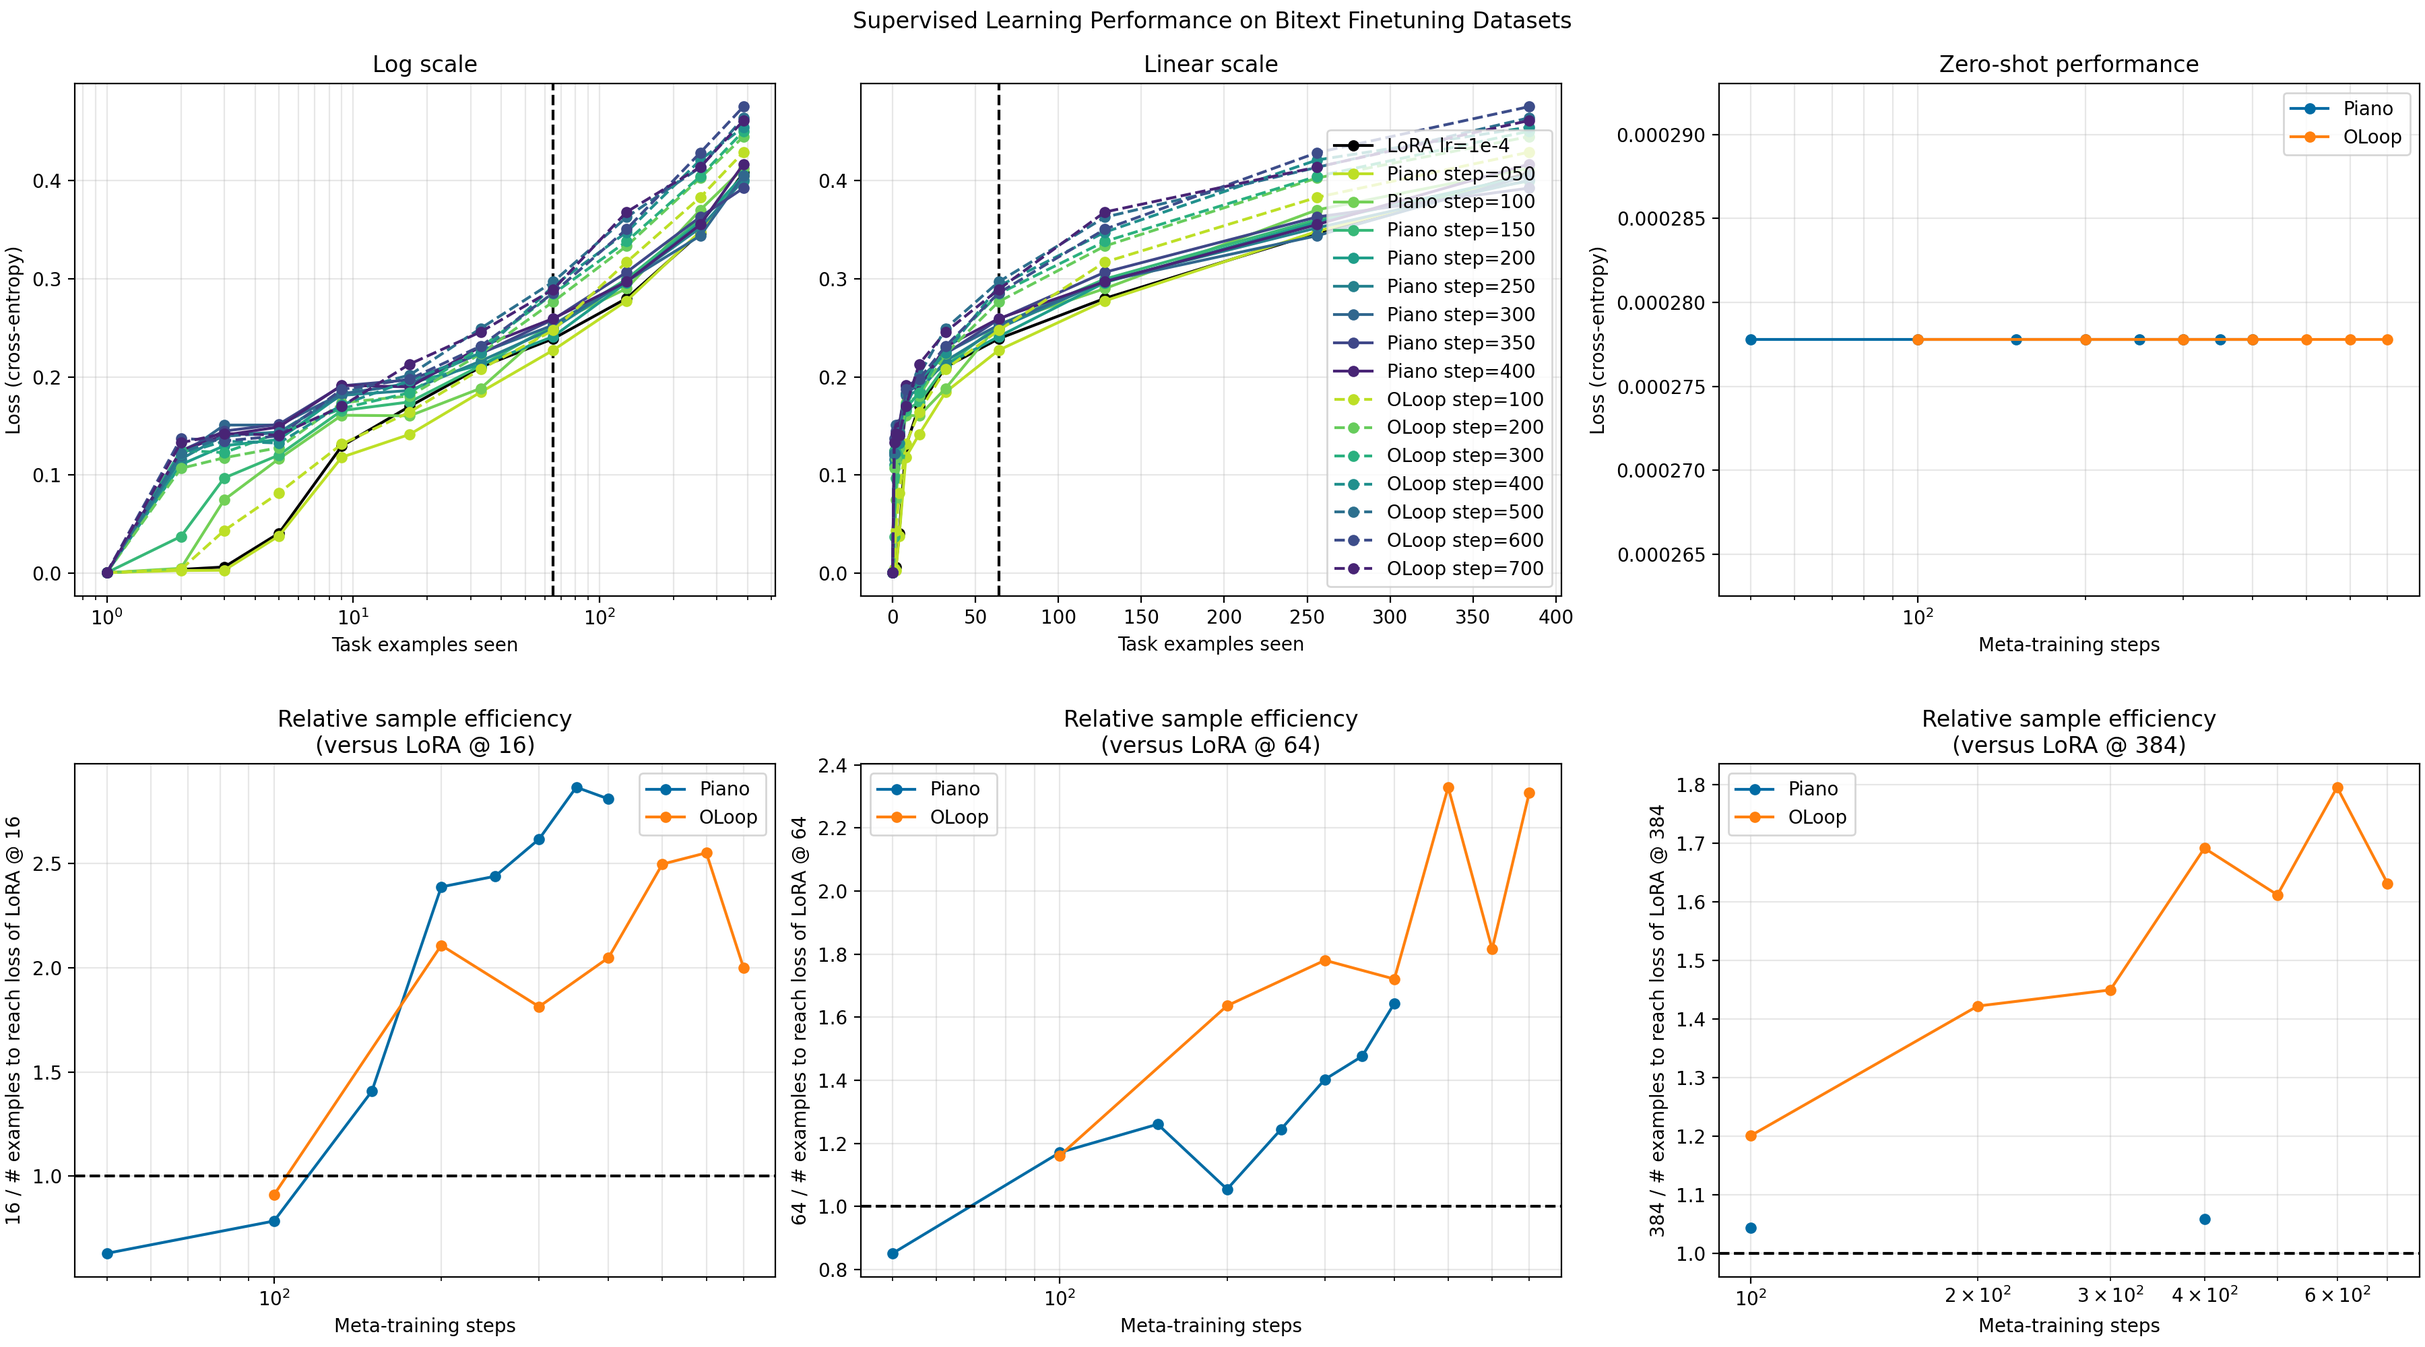
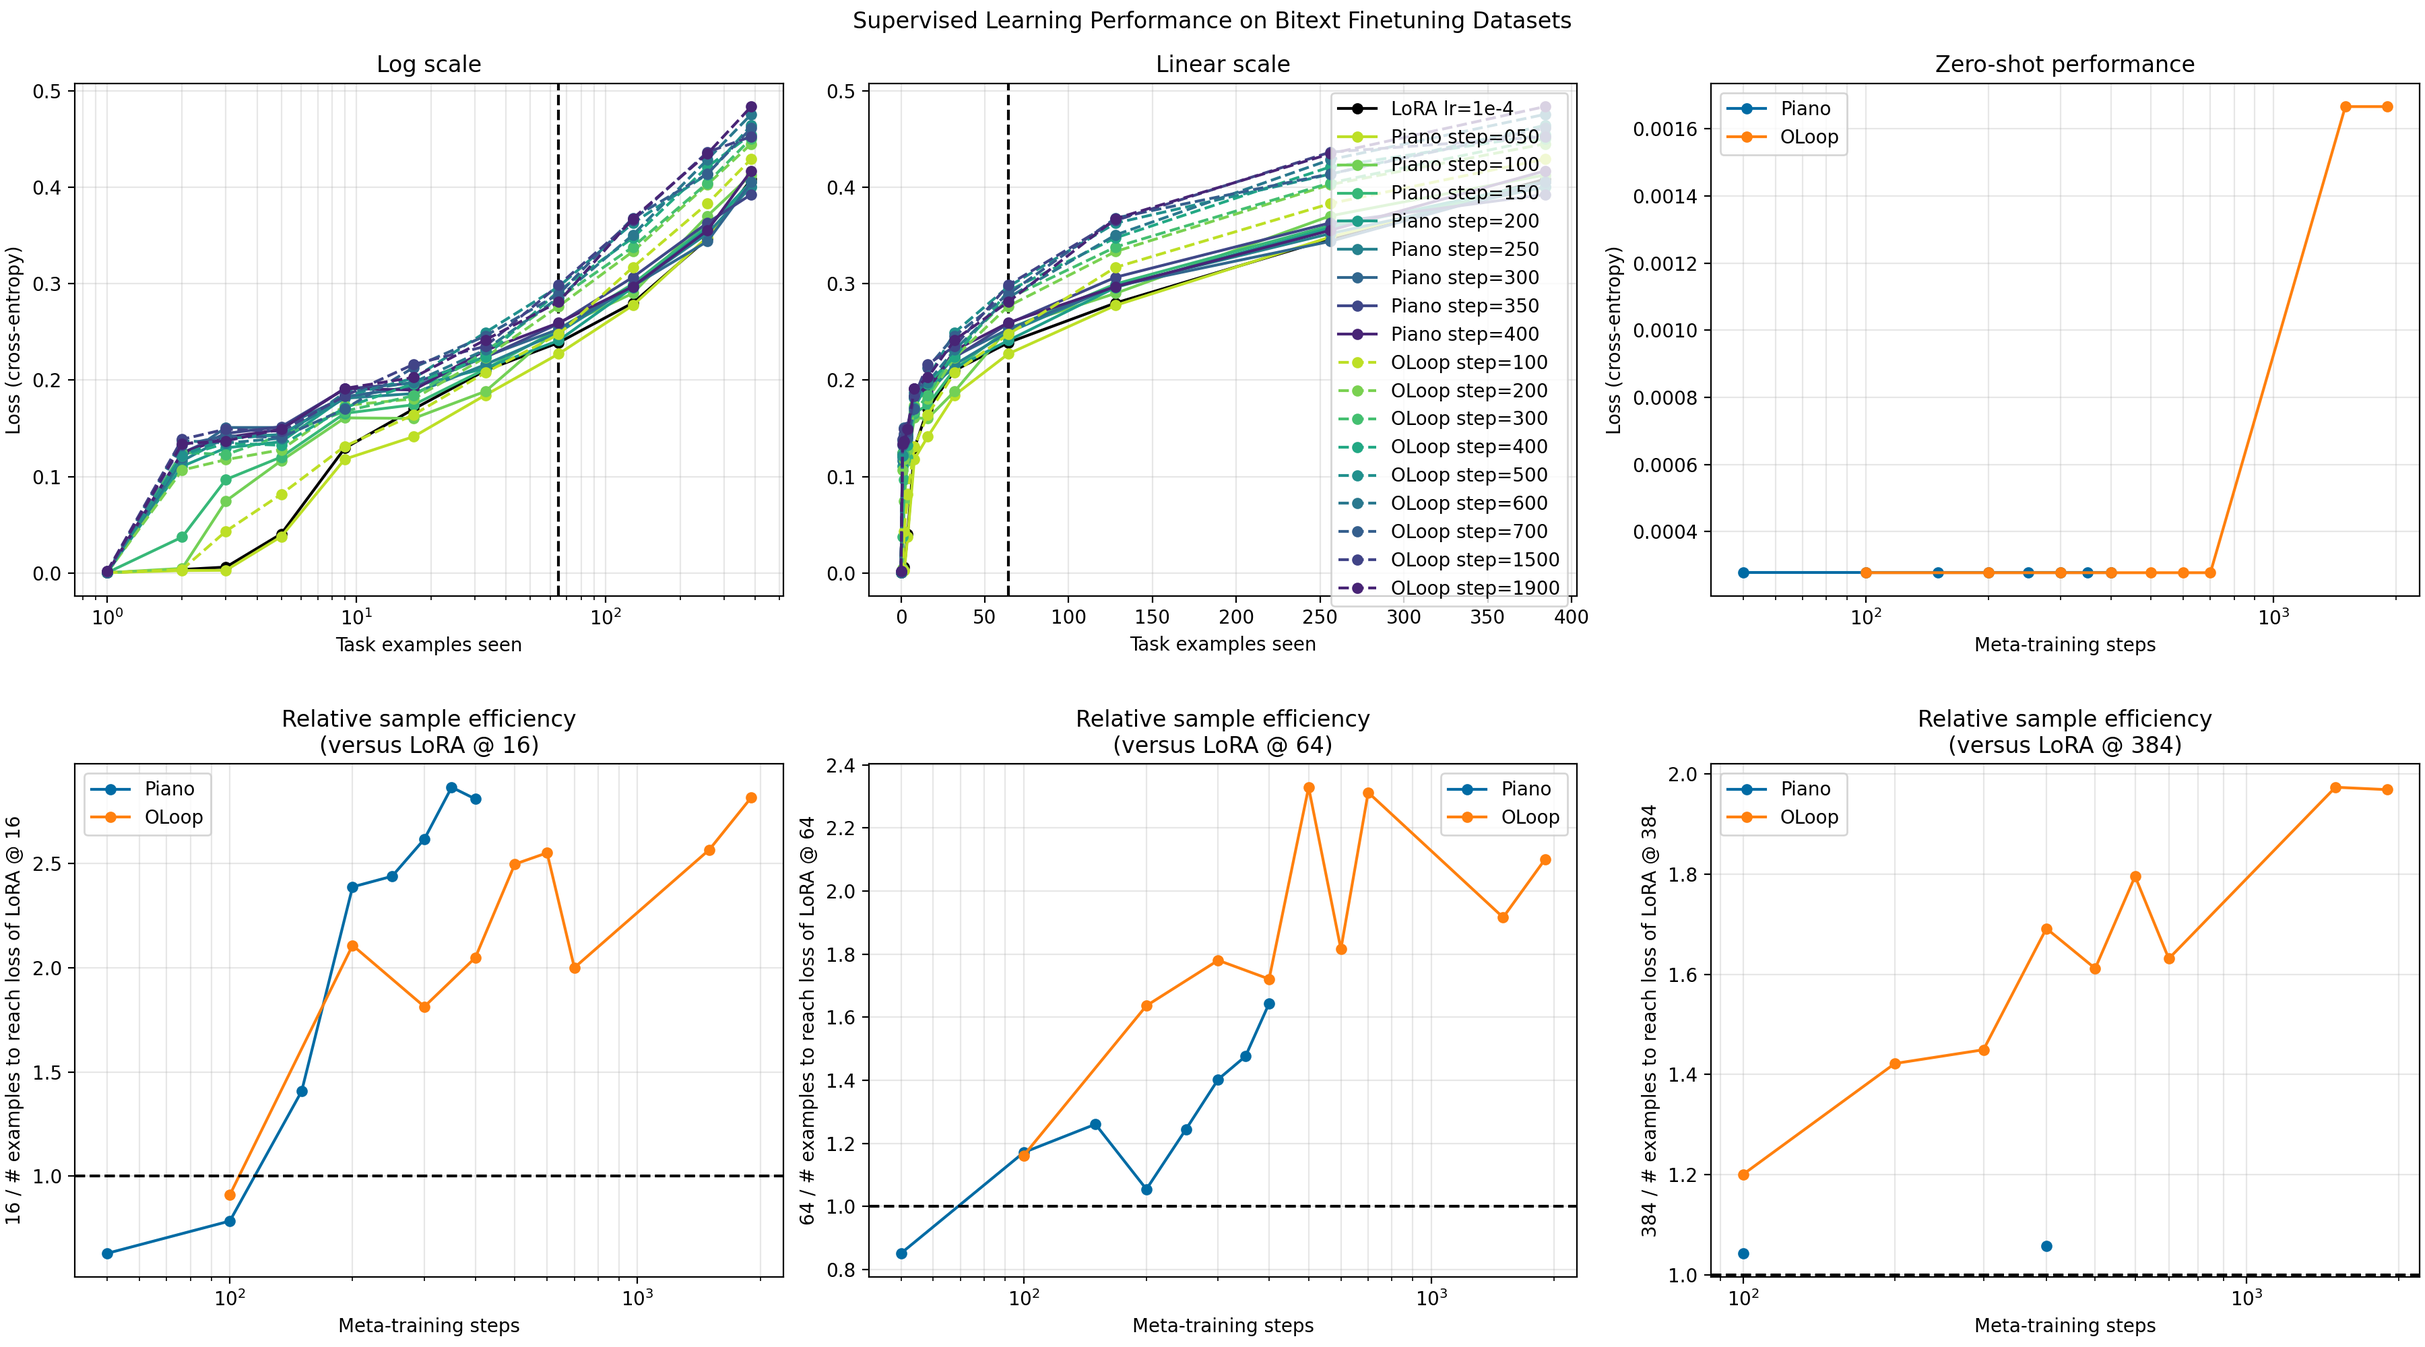
lora ablations

diff --git a/src/evaluate_icl.py b/src/evaluate_icl.py
@@ -64,6 +64,17 @@ def parse_args():
     )
     parser.add_argument("--eval-fn", default="output_loss", choices=["exact_match", "output_loss"])
     parser.add_argument("--save-name", default=None, help="Name for saving results (default: checkpoint name)")
+    parser.add_argument(
+        "--only-lora-fast-weights",
+        choices=["q_proj", "k_proj", "v_proj", "o_proj", "up_proj", "down_proj", "gate_proj"],
+        default=None,
+        help="Keep dynamic LoRA weights enabled only for one projection family",
+    )
+    parser.add_argument(
+        "--result-path",
+        default=None,
+        help="Write the result directly to this JSON path (requires one rollout)",
+    )
     return parser.parse_args()
 
 
@@ -97,7 +108,12 @@ def load_config_defaults(config_path, config):
                         config[k] = v
 
 
-def load_fresh_model(config_path: str, base_lr: float | None, device: torch.device):
+def load_fresh_model(
+    config_path: str,
+    base_lr: float | None,
+    device: torch.device,
+    only_lora_fast_weights: str | None = None,
+):
     config = OmegaConf.load(constants.CONFIG_PATH(config_path))
     load_config_defaults(config_path, config)
 
@@ -126,6 +142,15 @@ def load_fresh_model(config_path: str, base_lr: float | None, device: torch.devi
             config.pretrained_step,
             strict=config.pretrained_strict,
         )
+
+    if only_lora_fast_weights is not None:
+        enable_only = getattr(model, "enable_fast_weights_only_for_projection", None)
+        if enable_only is None:
+            raise ValueError("--only-lora-fast-weights requires an OLoop LoRA model")
+        count = enable_only(only_lora_fast_weights)
+        if count == 0:
+            raise ValueError(f"No LoRA modules matched projection {only_lora_fast_weights!r}")
+        print(f"Enabled LoRA fast weights only for {count} {only_lora_fast_weights} modules")
 
     model.train()
     enable_gradient_checkpointing(model)
@@ -379,7 +404,9 @@ def evaluate_rows(model, train_fn, logits_fn, tokenizer, rows, args, device):
 
 
 def save_results(args, label: int | str, results):
-    if args.fresh_config is None:
+    if args.result_path is not None:
+        path = Path(args.result_path)
+    elif args.fresh_config is None:
         path = Path(constants.LOCAL_DATA_PATH) / "icl_results" / ((args.save_name+"/"+args.checkpoint.replace("/", "--")) if args.save_name is not None else args.checkpoint.replace("/", "--")) / f"{label:012d}.json"
     else:
         path = Path(constants.LOCAL_DATA_PATH) / "icl_results" / (args.save_name if args.save_name is not None else "fresh") / Path(args.fresh_config).stem / f"{label}.json"
@@ -397,6 +424,9 @@ def main():
     args = parse_args()
     if args.fresh_config is None and args.checkpoint_steps is None:
         raise ValueError("--checkpoint-steps is required unless --fresh-config is set")
+    rollout_count = len(args.base_lrs or [None]) if args.fresh_config is not None else len(args.checkpoint_steps)
+    if args.result_path is not None and rollout_count != 1:
+        raise ValueError("--result-path requires exactly one base LR or checkpoint step")
 
     args.num_examples = sorted(set(args.num_examples))
     if args.lr_scale_decay:
@@ -411,7 +441,12 @@ def main():
 
     if args.fresh_config is not None:
         for base_lr in args.base_lrs or [None]:
-            model = load_fresh_model(args.fresh_config, base_lr, device)
+            model = load_fresh_model(
+                args.fresh_config,
+                base_lr,
+                device,
+                only_lora_fast_weights=args.only_lora_fast_weights,
+            )
             tokenizer = load_tokenizer(args.tokenizer)
             train_fn, logits_fn = make_fns(model, args, device)
             results = evaluate_rows(model, train_fn, logits_fn, tokenizer, rows, args, device)

diff --git a/src/scripts/two_panel_plot_single_lora_ablation.py b/src/scripts/two_panel_plot_single_lora_ablation.py
@@ -1,0 +1,86 @@
+#!/usr/bin/env python3
+"""Plot single-projection LoRA ablations on log and linear scales."""
+
+import argparse
+import json
+from pathlib import Path
+
+import matplotlib.pyplot as plt
+
+
+plt.style.use("tableau-colorblind10")
+
+REPO_ROOT = Path(__file__).resolve().parents[2]
+DATA_DIR = REPO_ROOT / "src" / "local_data" / "icl_results" / "single_lora_ablation"
+DEFAULT_OUTPUT = REPO_ROOT / "figures" / "icl_plot_single_lora_ablation_two_panel.png"
+RUNS = (
+    ("q_proj.json", "Q projection"),
+    ("k_proj.json", "K projection"),
+    ("v_proj.json", "V projection"),
+    ("o_proj.json", "O projection"),
+    ("up_proj.json", "Up projection"),
+    ("down_proj.json", "Down projection"),
+    ("gate_proj.json", "Gate projection"),
+)
+
+
+def load_scores(filename: str, metric: str) -> tuple[list[int], list[float]]:
+    with (DATA_DIR / filename).open() as file:
+        rows = json.load(file)
+    points = sorted((int(row["num_examples"]), float(row[metric])) for row in rows)
+    return [x for x, _ in points], [y for _, y in points]
+
+
+def plot_run(axes, filename: str, label: str, metric: str, color: str, **kwargs) -> None:
+    x, y = load_scores(filename, metric)
+    axes[0].plot(
+        [value + 1 for value in x], y, ".-", markersize=8,
+        label=label, color=color, **kwargs,
+    )
+    axes[1].plot(
+        x, y, ".-", markersize=8, label=label, color=color, **kwargs,
+    )
+
+
+def make_figure(metric: str):
+    fig, axes = plt.subplots(
+        1, 2, figsize=(13, 5.5), constrained_layout=True, sharey=True
+    )
+
+    plot_run(
+        axes, "baseline.json", "Baseline", metric, "black",
+        linewidth=2.5, zorder=10,
+    )
+    palette = plt.rcParams["axes.prop_cycle"].by_key()["color"]
+    for (filename, label), color in zip(RUNS, palette):
+        plot_run(axes, filename, label, metric, color)
+
+    axes[0].axvline(65, color="0.4", linestyle="--")
+    axes[0].set(xscale="log", title="Log scale", ylabel="Loss (cross-entropy)")
+    axes[1].axvline(64, color="0.4", linestyle="--")
+    axes[1].set_title("Linear scale")
+    axes[1].legend(ncol=2)
+    for axis in axes:
+        axis.set_xlabel("Task examples seen")
+        axis.grid(True, which="both", alpha=0.3)
+
+    fig.suptitle("ICL Performance with a Single LoRA Projection Type")
+    return fig
+
+
+def main() -> None:
+    parser = argparse.ArgumentParser()
+    parser.add_argument("--output", type=Path, default=DEFAULT_OUTPUT)
+    parser.add_argument("--metric", default="average")
+    parser.add_argument("--dpi", type=int, default=200)
+    args = parser.parse_args()
+
+    args.output.parent.mkdir(parents=True, exist_ok=True)
+    figure = make_figure(args.metric)
+    figure.savefig(args.output, dpi=args.dpi)
+    plt.close(figure)
+    print(f"Wrote {args.output}")
+
+
+if __name__ == "__main__":
+    main()

diff --git a/src/scripts/two_panel_plot_single_lora_acc_ablation.py b/src/scripts/two_panel_plot_single_lora_acc_ablation.py
@@ -1,0 +1,86 @@
+#!/usr/bin/env python3
+"""Plot single-projection LoRA accuracy ablations on log and linear scales."""
+
+import argparse
+import json
+from pathlib import Path
+
+import matplotlib.pyplot as plt
+
+
+plt.style.use("tableau-colorblind10")
+
+REPO_ROOT = Path(__file__).resolve().parents[2]
+DATA_DIR = REPO_ROOT / "src" / "local_data" / "icl_acc_results" / "single_lora_ablation"
+DEFAULT_OUTPUT = REPO_ROOT / "figures" / "acc_plot_single_lora_ablation_two_panel.png"
+RUNS = (
+    ("q_proj.json", "Q projection"),
+    ("k_proj.json", "K projection"),
+    ("v_proj.json", "V projection"),
+    ("o_proj.json", "O projection"),
+    ("up_proj.json", "Up projection"),
+    ("down_proj.json", "Down projection"),
+    ("gate_proj.json", "Gate projection"),
+)
+
+
+def load_scores(filename: str, metric: str) -> tuple[list[int], list[float]]:
+    with (DATA_DIR / filename).open() as file:
+        rows = json.load(file)
+    points = sorted((int(row["num_examples"]), float(row[metric])) for row in rows)
+    return [x for x, _ in points], [y for _, y in points]
+
+
+def plot_run(axes, filename: str, label: str, metric: str, color: str, **kwargs) -> None:
+    x, y = load_scores(filename, metric)
+    axes[0].plot(
+        [value + 1 for value in x], y, ".-", markersize=8,
+        label=label, color=color, **kwargs,
+    )
+    axes[1].plot(
+        x, y, ".-", markersize=8, label=label, color=color, **kwargs,
+    )
+
+
+def make_figure(metric: str):
+    fig, axes = plt.subplots(
+        1, 2, figsize=(13, 5.5), constrained_layout=True, sharey=True
+    )
+
+    plot_run(
+        axes, "baseline.json", "Baseline", metric, "black",
+        linewidth=2.5, zorder=10,
+    )
+    palette = plt.rcParams["axes.prop_cycle"].by_key()["color"]
+    for (filename, label), color in zip(RUNS, palette):
+        plot_run(axes, filename, label, metric, color)
+
+    axes[0].axvline(65, color="0.4", linestyle="--")
+    axes[0].set(xscale="log", title="Log scale", ylabel="Accuracy")
+    axes[1].axvline(64, color="0.4", linestyle="--")
+    axes[1].set_title("Linear scale")
+    axes[1].legend(ncol=2)
+    for axis in axes:
+        axis.set_xlabel("Task examples seen")
+        axis.grid(True, which="both", alpha=0.3)
+
+    fig.suptitle("ICL Accuracy with a Single LoRA Projection Type")
+    return fig
+
+
+def main() -> None:
+    parser = argparse.ArgumentParser()
+    parser.add_argument("--output", type=Path, default=DEFAULT_OUTPUT)
+    parser.add_argument("--metric", default="average")
+    parser.add_argument("--dpi", type=int, default=200)
+    args = parser.parse_args()
+
+    args.output.parent.mkdir(parents=True, exist_ok=True)
+    figure = make_figure(args.metric)
+    figure.savefig(args.output, dpi=args.dpi)
+    plt.close(figure)
+    print(f"Wrote {args.output}")
+
+
+if __name__ == "__main__":
+    main()

diff --git a/src/evaluate_acc.py b/src/evaluate_acc.py
@@ -65,6 +65,17 @@ def parse_args():
     )
     parser.add_argument("--eval-fn", default="exact_match", choices=["exact_match", "output_loss"])
     parser.add_argument("--save-name", default=None, help="Name for saving results (default: checkpoint name)")
+    parser.add_argument(
+        "--only-lora-fast-weights",
+        choices=["q_proj", "k_proj", "v_proj", "o_proj", "up_proj", "down_proj", "gate_proj"],
+        default=None,
+        help="Keep dynamic LoRA weights enabled only for one projection family",
+    )
+    parser.add_argument(
+        "--result-path",
+        default=None,
+        help="Write the result directly to this JSON path (requires one rollout)",
+    )
     return parser.parse_args()
 
 
@@ -334,7 +345,9 @@ def evaluate_rows(model, train_fn, logits_fn, tokenizer, rows, args, device):
 
 
 def save_results(args, label: int | str, results):
-    if args.fresh_config is None:
+    if args.result_path is not None:
+        path = Path(args.result_path)
+    elif args.fresh_config is None:
         path = Path(constants.LOCAL_DATA_PATH) / "icl_acc_results" / ((args.save_name+"/"+args.checkpoint.replace("/", "--")) if args.save_name is not None else args.checkpoint.replace("/", "--")) / f"{label:012d}.json"
     else:
         path = Path(constants.LOCAL_DATA_PATH) / "icl_acc_results" / (args.save_name if args.save_name is not None else "fresh") / Path(args.fresh_config).stem / f"{label}.json"
@@ -352,6 +365,9 @@ def main():
     args = parse_args()
     if args.fresh_config is None and args.checkpoint_steps is None:
         raise ValueError("--checkpoint-steps is required unless --fresh-config is set")
+    rollout_count = len(args.base_lrs or [None]) if args.fresh_config is not None else len(args.checkpoint_steps)
+    if args.result_path is not None and rollout_count != 1:
+        raise ValueError("--result-path requires exactly one base LR or checkpoint step")
 
     args.num_examples = sorted(set(args.num_examples))
     if args.lr_scale_decay:
@@ -366,7 +382,12 @@ def main():
 
     if args.fresh_config is not None:
         for base_lr in args.base_lrs or [None]:
-            model = load_fresh_model(args.fresh_config, base_lr, device)
+            model = load_fresh_model(
+                args.fresh_config,
+                base_lr,
+                device,
+                only_lora_fast_weights=args.only_lora_fast_weights,
+            )
             tokenizer = load_tokenizer(args.tokenizer)
             train_fn, logits_fn = make_fns(model, args, device)
             results = evaluate_rows(model, train_fn, logits_fn, tokenizer, rows, args, device)

diff --git a/src/models/oloop_lora.py b/src/models/oloop_lora.py
@@ -207,14 +207,19 @@ class FastWeightLoRALinear(nn.Module):
             base_linear.out_features,
             config,
         )
+        self.fast_weights_enabled = True
 
 
     def forward(self, x):
     
         y_w = fixed_linear(x, self.weight, self.bias)
 
-        z = self.base_down(x) + self.fast_down(x)
-        y_fast = self.base_up(z) + self.fast_up(z)
+        z = self.base_down(x)
+        if self.fast_weights_enabled:
+            z = z + self.fast_down(x)
+            y_fast = self.base_up(z) + self.fast_up(z)
+        else:
+            y_fast = self.base_up(z)
 
         return y_w + y_fast
 
@@ -281,6 +286,16 @@ class OLoopLoRAModel(LlamaForCausalLM):
         for module in self.modules():
             if isinstance(module, FastWeight):
                 yield module
+
+    def enable_fast_weights_only_for_projection(self, projection: str) -> int:
+        """Keep dynamic LoRA weights enabled for only one projection family."""
+        count = 0
+        for name, module in self.named_modules():
+            if isinstance(module, FastWeightLoRALinear):
+                enabled = name.endswith(f".{projection}")
+                module.fast_weights_enabled = enabled
+                count += int(enabled)
+        return count
 
     def _layer_submodule(self, layer: LlamaDecoderLayer|int, name: str) -> nn.Module:
         if isinstance(layer, int):

diff --git a/src/scripts/plot_icl.py b/src/scripts/plot_icl.py
@@ -18,8 +18,8 @@ DATA_DIR = REPO_ROOT / "src/local_data/icl_results"
 DEFAULT_OUTPUT = REPO_ROOT / "figures/icl_plot.png"
 
 REFERENCE_RUN = (
-    "fresh_pretrained/oloop-lora-llama3p2-1b-pre/base_lr_1e-04.json",
-    "LoRA lr=1e-4",
+    "fresh_frozen/oloop-lora-llama3p2-1b-pre/base_lr_3e-04.json",
+    "LoRA lr=3e-4",
 )
 RUNS = [
     (
@@ -30,7 +30,7 @@ RUNS = [
     (
         "aklein4/horizon-v2_oloop",
         "OLoop",
-        [100, 200, 300, 400, 500, 600, 700],
+        [100, 200, 300, 400, 500, 600, 700, 1500, 1900],
     ),
 ]
 

diff --git a/src/scripts/plot_acc.py b/src/scripts/plot_acc.py
@@ -30,7 +30,7 @@ RUNS = [
     (
         "aklein4/horizon-v2_oloop",
         "OLoop",
-        [100, 200, 300, 400, 500, 600, 700],
+        [100, 200, 300, 400, 500, 600, 700, 1500, 1900],
     ),
 ]
 
